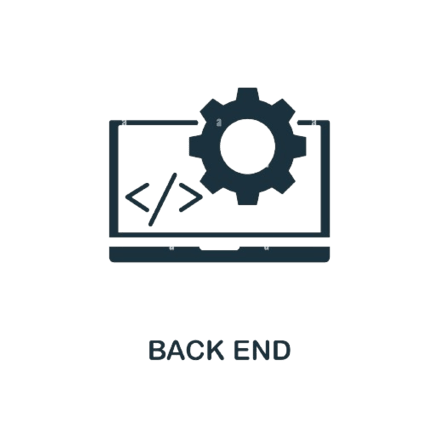
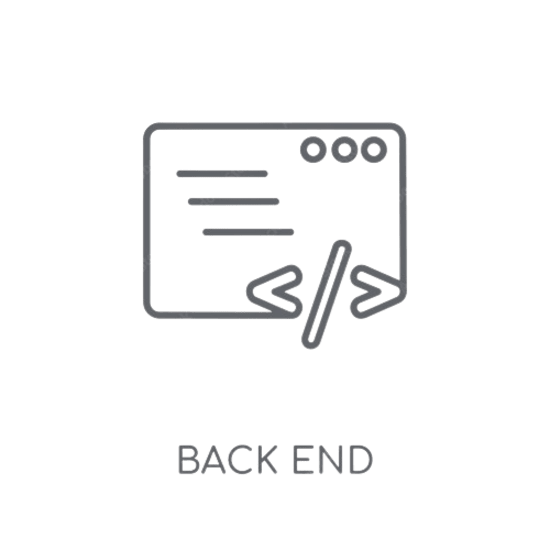
guj

Changed region(s): [[0.2364, 0.1773, 0.7682, 0.65], [0.325, 0.7682, 0.6795, 0.8864]]

diff --git a/src/App.jsx b/src/App.jsx
@@ -78,7 +78,30 @@ function App() {
     },
     // Add more slides as needed
   ];
-
+  const Databaseslides = [
+    {
+      image: './src/assets/Dataimg/Oracle.png',
+      title: 'ORACLE',
+    },
+    {
+      image: './src/assets/Dataimg/MySQL.png',
+      title: 'MySQL',
+    },
+    {
+      image: './src/assets/Dataimg/MongoDB.png',
+      title: 'MongoDB',
+    },
+    {
+      image: './src/assets/Dataimg/Mongoose.png',
+      title: 'Mongoose',
+    },
+    {
+      image: './src/assets/Dataimg/SQL.png',
+      title: 'SQL',
+    },
+   
+    // Add more slides as needed
+  ];
 
 
 
@@ -91,9 +114,9 @@ function App() {
     <SplashScreen></SplashScreen>
     <Navbar></Navbar>
     <Example></Example>
-    <Carousel slides={slides} cardsToShow={cardsToShow} />
-    <Carousel slides={backendslides} cardsToShow={cardsToShow} />
-    <Carousel slides={slides} cardsToShow={cardsToShow} />
+    <Carousel slides={slides} cardsToShow={cardsToShow} headerImage="./src/assets/Frontendimg/frontend.png" />
+    <Carousel slides={backendslides} cardsToShow={cardsToShow}headerImage="./src/assets/Backendimg/Backendimg1.png" />
+    <Carousel slides={Databaseslides} cardsToShow={cardsToShow} headerImage="./src/assets/Dataimg/Databaseimg.png" />
     </>
   )
 }

diff --git a/src/Compnents/Carousel.jsx b/src/Compnents/Carousel.jsx
@@ -1,7 +1,7 @@
 import React, { useState, useEffect, useRef } from 'react';
 import './CSS files/Carousel.css'; // Import CSS for styling
 
-const Carousel = ({ slides }) => {
+const Carousel = ({ slides, headerImage }) => {
   const [currentSlide, setCurrentSlide] = useState(0);
   const [cardsToShow, setCardsToShow] = useState(1);
   const carouselRef = useRef(null);
@@ -41,7 +41,9 @@ const Carousel = ({ slides }) => {
 
   return (
     <div className='Carousel-main flex items-center justify-around'>
-      <div className='front-header text-purple-500 text-xl'><img className='w-[55%] ml-7' src="./src/assets/Frontendimg/frontend.png" alt=""></img></div>
+      <div className='front-header text-purple-500 text-xl'>
+        <img className='w-[55%] ml-7' src={headerImage} alt="Header" />
+      </div>
       <div ref={carouselRef} className="carousel mx-7 flex justify-start overflow-hidden">
         <div
           className="carousel-container pt-6 flex transition-transform duration-500"
